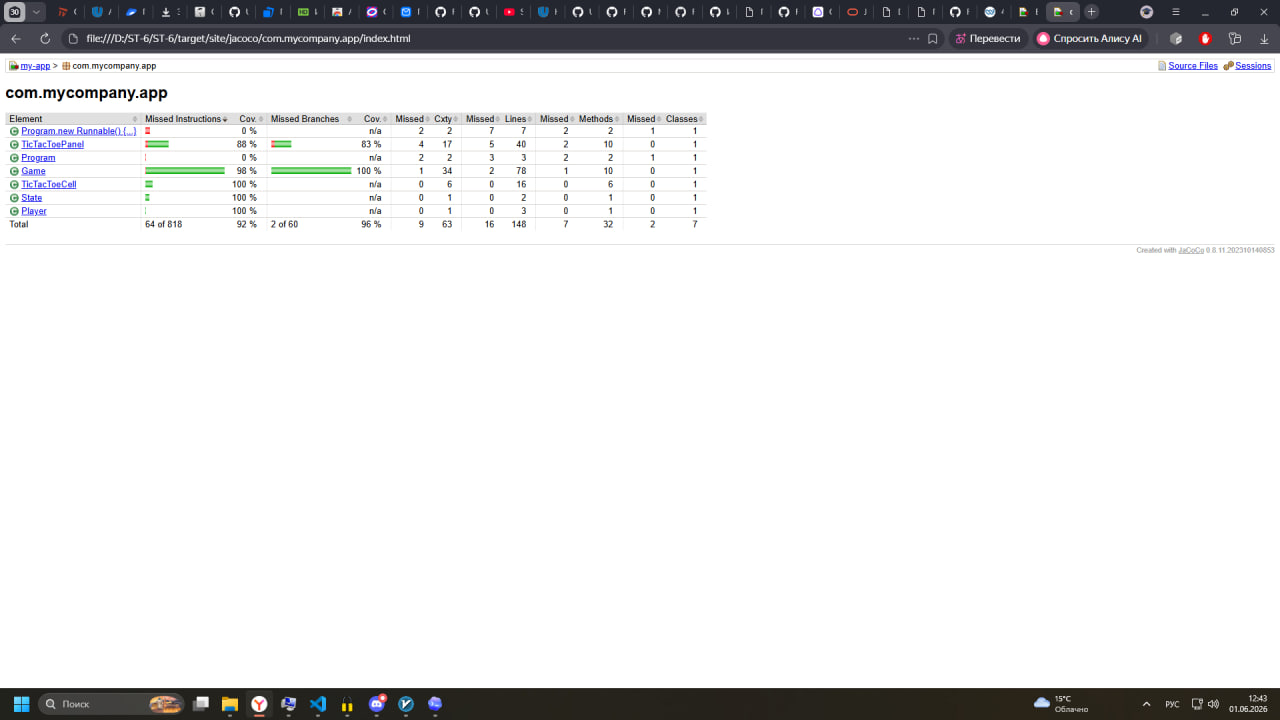
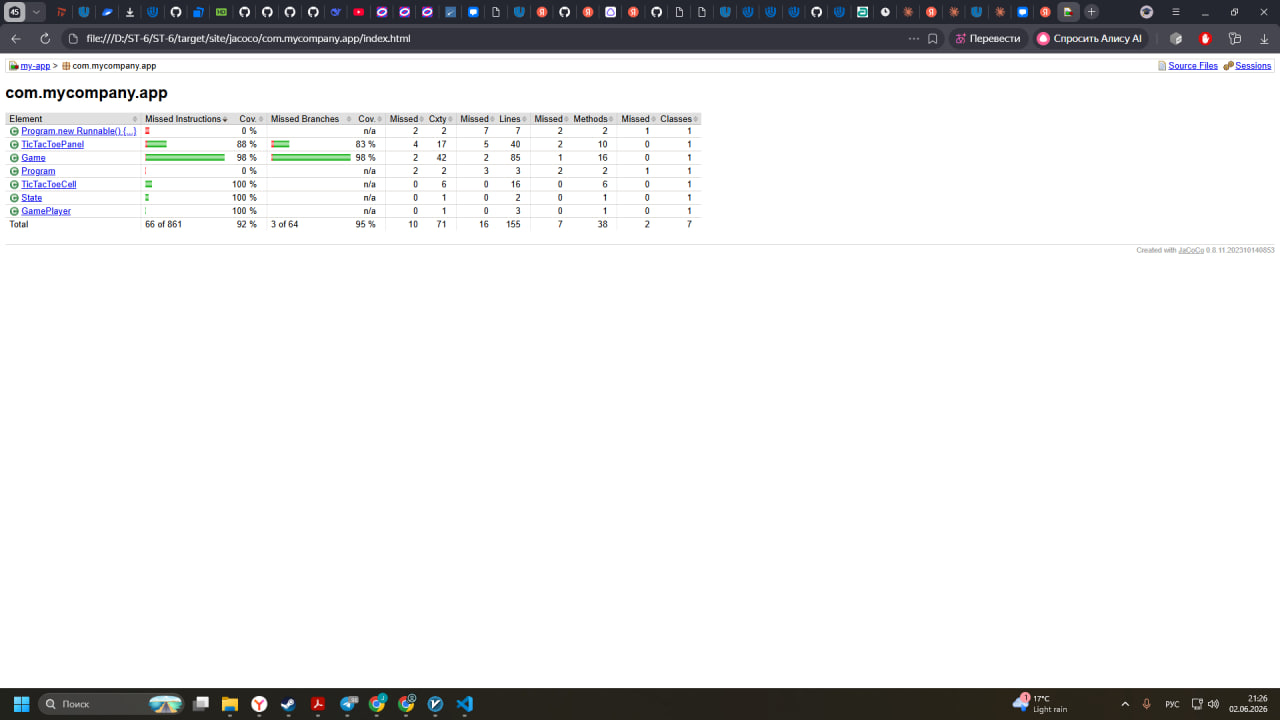
fix

diff --git a/src/main/java/com/mycompany/app/Program.java b/src/main/java/com/mycompany/app/Program.java
@@ -17,20 +17,27 @@ enum State {
     PLAYING, OWIN, XWIN, DRAW
 }
 
-class Player {
+class GamePlayer {
     final char symbol;
 
-    Player(char symbol) {
+    GamePlayer(char symbol) {
         this.symbol = symbol;
     }
 }
 
 class Game {
     static final int INF = 100;
+    static final char EMPTY = ' ';
 
-    final Player player1 = new Player('X');
-    final Player player2 = new Player('O');
-    final char[] board = {' ', ' ', ' ', ' ', ' ', ' ', ' ', ' ', ' '};
+    static final int[][] WINNING_LINES = {
+        {0, 1, 2}, {3, 4, 5}, {6, 7, 8},
+        {0, 3, 6}, {1, 4, 7}, {2, 5, 8},
+        {0, 4, 8}, {2, 4, 6}
+    };
+
+    final GamePlayer player1 = new GamePlayer('X');
+    final GamePlayer player2 = new GamePlayer('O');
+    final char[] board = {EMPTY, EMPTY, EMPTY, EMPTY, EMPTY, EMPTY, EMPTY, EMPTY, EMPTY};
 
     private final Random random;
     int q;
@@ -44,29 +51,29 @@ class Game {
     }
 
     State checkState(char[] currentBoard) {
-        if (hasLine(currentBoard, 'X')) {
+        if (hasWinningLine(currentBoard, player1.symbol)) {
             return State.XWIN;
         }
-        if (hasLine(currentBoard, 'O')) {
+        if (hasWinningLine(currentBoard, player2.symbol)) {
             return State.OWIN;
         }
-        for (char cell : currentBoard) {
-            if (cell == ' ') {
-                return State.PLAYING;
-            }
-        }
-        return State.DRAW;
+        return hasFreeCell(currentBoard) ? State.PLAYING : State.DRAW;
     }
 
     void generateMoves(char[] currentBoard, List<Integer> moves) {
+        collectAvailableMoves(currentBoard, moves);
+    }
+
+    void collectAvailableMoves(char[] currentBoard, List<Integer> freeCells) {
+        freeCells.clear();
         for (int i = 0; i < currentBoard.length; i++) {
-            if (currentBoard[i] == ' ') {
-                moves.add(i);
+            if (currentBoard[i] == EMPTY) {
+                freeCells.add(i);
             }
         }
     }
 
-    int evaluatePosition(char[] currentBoard, Player player) {
+    int evaluatePosition(char[] currentBoard, GamePlayer player) {
         State state = checkState(currentBoard);
         if (state == State.DRAW) {
             return 0;
@@ -80,30 +87,42 @@ class Game {
         return -1;
     }
 
-    int miniMax(char[] currentBoard, Player player) {
-        int bestValue = -INF;
+    int miniMax(char[] currentBoard, GamePlayer player) {
+        return computeBestMove(currentBoard, player);
+    }
+
+    int computeBestMove(char[] currentBoard, GamePlayer player) {
+        if (evaluatePosition(currentBoard, player) != -1) {
+            return 0;
+        }
+        int currentBest = -INF;
         List<Integer> moves = new ArrayList<Integer>();
         List<Integer> bestMoves = new ArrayList<Integer>();
-        generateMoves(currentBoard, moves);
+        collectAvailableMoves(currentBoard, moves);
         for (int move : moves) {
             currentBoard[move] = player.symbol;
-            int value = minMove(currentBoard, player);
-            currentBoard[move] = ' ';
-            if (value > bestValue) {
-                bestValue = value;
+            int value = minimaxMin(currentBoard, player);
+            currentBoard[move] = EMPTY;
+            if (value > currentBest) {
+                currentBest = value;
                 bestMoves.clear();
                 bestMoves.add(move + 1);
-            } else if (value == bestValue) {
+            } else if (value == currentBest) {
                 bestMoves.add(move + 1);
             }
         }
-        if (bestMoves.isEmpty()) {
-            return 0;
-        }
-        return bestMoves.get(random.nextInt(bestMoves.size()));
+        return bestMoves.isEmpty() ? 0 : bestMoves.get(random.nextInt(bestMoves.size()));
     }
 
-    int minMove(char[] currentBoard, Player player) {
+    int minMove(char[] currentBoard, GamePlayer player) {
+        return minimaxMin(currentBoard, player);
+    }
+
+    int maxMove(char[] currentBoard, GamePlayer player) {
+        return minimaxMax(currentBoard, player);
+    }
+
+    int minimaxMin(char[] currentBoard, GamePlayer player) {
         int value = evaluatePosition(currentBoard, player);
         if (value != -1) {
             return value;
@@ -111,16 +130,16 @@ class Game {
         q++;
         int bestValue = INF;
         List<Integer> moves = new ArrayList<Integer>();
-        generateMoves(currentBoard, moves);
+        collectAvailableMoves(currentBoard, moves);
         for (int move : moves) {
-            currentBoard[move] = otherSymbol(player.symbol);
-            bestValue = Math.min(bestValue, maxMove(currentBoard, player));
-            currentBoard[move] = ' ';
+            currentBoard[move] = opponentFor(player.symbol);
+            bestValue = Math.min(bestValue, minimaxMax(currentBoard, player));
+            currentBoard[move] = EMPTY;
         }
         return bestValue;
     }
 
-    int maxMove(char[] currentBoard, Player player) {
+    int minimaxMax(char[] currentBoard, GamePlayer player) {
         int value = evaluatePosition(currentBoard, player);
         if (value != -1) {
             return value;
@@ -128,22 +147,17 @@ class Game {
         q++;
         int bestValue = -INF;
         List<Integer> moves = new ArrayList<Integer>();
-        generateMoves(currentBoard, moves);
+        collectAvailableMoves(currentBoard, moves);
         for (int move : moves) {
             currentBoard[move] = player.symbol;
-            bestValue = Math.max(bestValue, minMove(currentBoard, player));
-            currentBoard[move] = ' ';
+            bestValue = Math.max(bestValue, minimaxMin(currentBoard, player));
+            currentBoard[move] = EMPTY;
         }
         return bestValue;
     }
 
-    private boolean hasLine(char[] currentBoard, char symbol) {
-        int[][] lines = {
-            {0, 1, 2}, {3, 4, 5}, {6, 7, 8},
-            {0, 3, 6}, {1, 4, 7}, {2, 5, 8},
-            {0, 4, 8}, {2, 4, 6}
-        };
-        for (int[] line : lines) {
+    private boolean hasWinningLine(char[] currentBoard, char symbol) {
+        for (int[] line : WINNING_LINES) {
             if (currentBoard[line[0]] == symbol
                     && currentBoard[line[1]] == symbol
                     && currentBoard[line[2]] == symbol) {
@@ -153,7 +167,16 @@ class Game {
         return false;
     }
 
-    private char otherSymbol(char symbol) {
+    private boolean hasFreeCell(char[] currentBoard) {
+        for (char cell : currentBoard) {
+            if (cell == EMPTY) {
+                return true;
+            }
+        }
+        return false;
+    }
+
+    private char opponentFor(char symbol) {
         return symbol == 'X' ? 'O' : 'X';
     }
 }
@@ -253,7 +276,7 @@ class TicTacToePanel extends JPanel implements ActionListener {
     }
 
     private void applyComputerMove() {
-        int move = game.miniMax(game.board, game.player2);
+        int move = game.computeBestMove(game.board, game.player2);
         if (move > 0) {
             applyMove(cells[move - 1], game.player2.symbol);
         }
@@ -273,14 +296,23 @@ class TicTacToePanel extends JPanel implements ActionListener {
 }
 
 public class Program {
+    static TicTacToePanel createGamePanel() {
+        return new TicTacToePanel(new GridLayout(3, 3));
+    }
+
+    static JFrame createGameFrame() {
+        JFrame frame = new JFrame("Tic-Tac-Toe");
+        frame.add(createGamePanel());
+        frame.setDefaultCloseOperation(JFrame.EXIT_ON_CLOSE);
+        frame.setBounds(5, 5, 500, 500);
+        return frame;
+    }
+
     public static void main(String[] args) {
         SwingUtilities.invokeLater(new Runnable() {
             @Override
             public void run() {
-                JFrame frame = new JFrame("Tic-Tac-Toe");
-                frame.add(new TicTacToePanel(new GridLayout(3, 3)));
-                frame.setDefaultCloseOperation(JFrame.EXIT_ON_CLOSE);
-                frame.setBounds(5, 5, 500, 500);
+                JFrame frame = createGameFrame();
                 frame.setVisible(true);
             }
         });

diff --git a/src/test/java/com/mycompany/app/GameTest.java b/src/test/java/com/mycompany/app/GameTest.java
@@ -7,6 +7,7 @@ import static org.junit.jupiter.api.Assertions.assertTrue;
 import java.util.ArrayList;
 import java.util.Arrays;
 import java.util.Random;
+import org.junit.jupiter.api.RepeatedTest;
 import org.junit.jupiter.api.Test;
 
 class GameTest {
@@ -79,5 +80,33 @@ class GameTest {
         assertEquals(Game.INF, game.maxMove(new char[] {'X', 'X', ' ', 'O', 'O', ' ', ' ', ' ', ' '}, game.player1));
         assertEquals(-Game.INF, game.minMove(new char[] {'X', 'X', ' ', 'O', ' ', ' ', ' ', ' ', ' '}, game.player2));
         assertTrue(game.q > 0);
+    }
+
+    @RepeatedTest(20)
+    void repeatedStateEvaluationCoversWinningAndDrawBoards() {
+        Game game = new Game(new Random(0));
+        char[][] boards = {
+            {'X', 'X', 'X', ' ', ' ', ' ', ' ', ' ', ' '},
+            {' ', ' ', ' ', 'O', 'O', 'O', ' ', ' ', ' '},
+            {'X', ' ', ' ', 'X', ' ', ' ', 'X', ' ', ' '},
+            {' ', 'O', ' ', ' ', 'O', ' ', ' ', 'O', ' '},
+            {'X', ' ', ' ', ' ', 'X', ' ', ' ', ' ', 'X'},
+            {' ', ' ', 'O', ' ', 'O', ' ', 'O', ' ', ' '},
+            {'X', 'O', 'X', 'O', 'X', 'O', 'O', 'X', 'O'}
+        };
+        State[] expected = {State.XWIN, State.OWIN, State.XWIN, State.OWIN, State.XWIN, State.OWIN, State.DRAW};
+        int index = new Random(1).nextInt(boards.length);
+        assertEquals(expected[index], game.checkState(boards[index]));
+        int score = game.evaluatePosition(boards[index], index % 2 == 0 ? game.player1 : game.player2);
+        assertTrue(score == Game.INF || score == -Game.INF || score == 0);
+    }
+
+    @RepeatedTest(30)
+    void repeatedMiniMaxHandlesDifferentOpenings() {
+        Game game = new Game(new Random(13));
+        char[] board = {'X', 'O', ' ', ' ', 'X', ' ', ' ', 'O', ' '};
+        int move = game.miniMax(board, game.player2);
+        assertTrue(move >= 0 && move <= 9);
+        assertTrue(move == 0 || board[move - 1] == ' ');
     }
 }

diff --git a/src/test/java/com/mycompany/app/TicTacToePanelTest.java b/src/test/java/com/mycompany/app/TicTacToePanelTest.java
@@ -6,6 +6,7 @@ import static org.junit.jupiter.api.Assertions.assertNotNull;
 
 import java.awt.GridLayout;
 import java.util.Random;
+import org.junit.jupiter.api.RepeatedTest;
 import org.junit.jupiter.api.Test;
 
 class TicTacToePanelTest {
@@ -65,6 +66,28 @@ class TicTacToePanelTest {
 
     @Test
     void messageForMapsStatesToReadableText() {
+        TestPanel panel = new TestPanel(new Game(new Random(0)));
+
+        assertEquals("X wins", panel.messageFor(State.XWIN));
+        assertEquals("O wins", panel.messageFor(State.OWIN));
+        assertEquals("Draw", panel.messageFor(State.DRAW));
+        assertEquals("Game continues", panel.messageFor(State.PLAYING));
+    }
+
+    @RepeatedTest(20)
+    void repeatedUserMoveLeavesValidBoardState() {
+        TestPanel panel = new TestPanel(new Game(new Random(42)));
+        int moveIndex = new Random(5).nextInt(9);
+
+        panel.getCells()[moveIndex].doClick();
+
+        assertEquals('X', panel.getCells()[moveIndex].getMarker());
+        assertEquals('X', panel.getGame().board[moveIndex]);
+        assertNotNull(panel.getGame().board);
+    }
+
+    @RepeatedTest(10)
+    void repeatedMessageForStateReturnsReadableStatus() {
         TestPanel panel = new TestPanel(new Game(new Random(0)));
 
         assertEquals("X wins", panel.messageFor(State.XWIN));

diff --git a/src/test/java/com/mycompany/app/TicTacToeCellTest.java b/src/test/java/com/mycompany/app/TicTacToeCellTest.java
@@ -3,6 +3,8 @@ package com.mycompany.app;
 import static org.junit.jupiter.api.Assertions.assertEquals;
 import static org.junit.jupiter.api.Assertions.assertFalse;
 
+import java.util.Random;
+import org.junit.jupiter.api.RepeatedTest;
 import org.junit.jupiter.api.Test;
 
 class TicTacToeCellTest {
@@ -25,6 +27,30 @@ class TicTacToeCellTest {
 
         assertEquals('X', cell.getMarker());
         assertEquals("X", cell.getText());
+        assertFalse(cell.isEnabled());
+    }
+
+    @RepeatedTest(10)
+    void repeatedConstructionAssignsCorrectCoordinates() {
+        int index = new Random(0).nextInt(9);
+        TicTacToeCell cell = new TicTacToeCell(index, index % 3, index / 3);
+
+        assertEquals(index, cell.getNum());
+        assertEquals(index % 3, cell.getCol());
+        assertEquals(index / 3, cell.getRow());
+        assertEquals(' ', cell.getMarker());
+        assertEquals(" ", cell.getText());
+    }
+
+    @RepeatedTest(10)
+    void repeatedSetMarkerAcceptsXAndO() {
+        TicTacToeCell cell = new TicTacToeCell(0, 0, 0);
+        String marker = new Random(1).nextBoolean() ? "X" : "O";
+
+        cell.setMarker(marker);
+
+        assertEquals(marker.charAt(0), cell.getMarker());
+        assertEquals(marker, cell.getText());
         assertFalse(cell.isEnabled());
     }
 }

diff --git a/src/test/java/com/mycompany/app/ProgramTest.java b/src/test/java/com/mycompany/app/ProgramTest.java
@@ -1,0 +1,35 @@
+package com.mycompany.app;
+
+import static org.junit.jupiter.api.Assertions.assertEquals;
+import static org.junit.jupiter.api.Assertions.assertFalse;
+import static org.junit.jupiter.api.Assertions.assertNotNull;
+import static org.junit.jupiter.api.Assumptions.assumeFalse;
+
+import java.awt.GraphicsEnvironment;
+import javax.swing.JFrame;
+import org.junit.jupiter.api.Test;
+
+class ProgramTest {
+    @Test
+    void createGamePanelReturnsPanelWithNineCells() {
+        TicTacToePanel panel = Program.createGamePanel();
+
+        assertNotNull(panel);
+        assertEquals(9, panel.getCells().length);
+        for (TicTacToeCell cell : panel.getCells()) {
+            assertNotNull(cell);
+        }
+    }
+
+    @Test
+    void createGameFrameReturnsFrameReadyForDisplay() {
+        assumeFalse(GraphicsEnvironment.isHeadless(), "Headless mode: skip frame creation test");
+
+        JFrame frame = Program.createGameFrame();
+
+        assertNotNull(frame);
+        assertEquals("Tic-Tac-Toe", frame.getTitle());
+        assertEquals(1, frame.getContentPane().getComponentCount());
+        assertFalse(frame.isVisible());
+    }
+}
